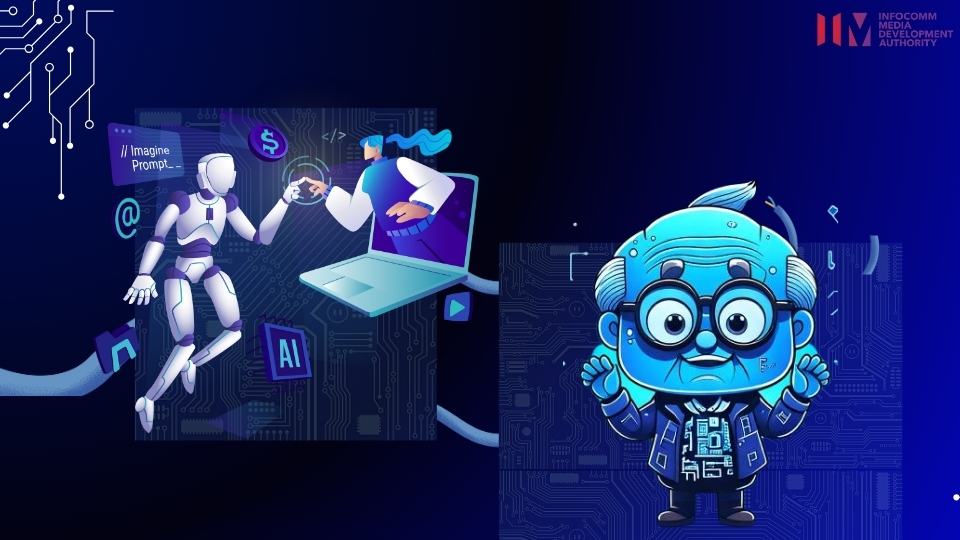
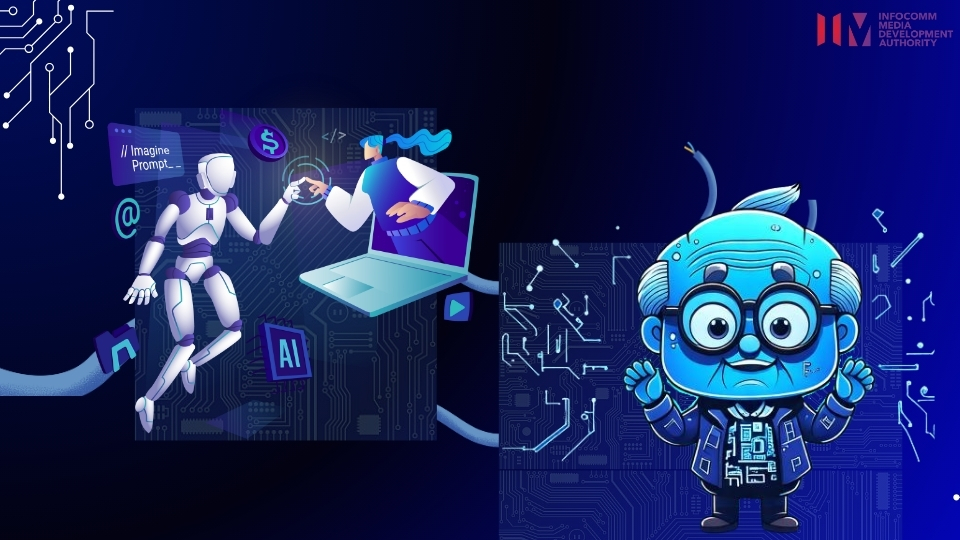
Add files via upload

Changed region(s): [[0.5, 0.2667, 0.9688, 1.0], [0.5312, 0.8296, 0.5625, 0.8593], [0.5312, 0.5037, 0.5625, 0.5333]]

diff --git a/Intdes-interactive-story/Jenibelleassignment.css b/Intdes-interactive-story/Jenibelleassignment.css
@@ -118,7 +118,7 @@ body, html {
 }
 
 /* Gradient Backgrounds for Other Sections miga */
-#page1 { background: url('2ndpng.jpeg') no-repeat center center;
+#page1 { background: url('2ndpng.jpg') no-repeat center center;
     background-size: cover;
 }
 #page2 {
@@ -128,11 +128,11 @@ body, html {
 #page3 {background: url('studyai.jpg') no-repeat center center;
     background-size: cover;  }
 
-#page4 {background: url('music.jpg') no-repeat center center;
+#page4 {background: url('ai.jpg') no-repeat center center;
     background-size: cover;  }
 
 
-#page5 {background: url('ai.jpg') no-repeat center center;
+#page5 {background: url('music.jpg') no-repeat center center;
     background-size: cover;  }
 #page6 { background: linear-gradient(135deg, #FFB88C, #D84B16); }
 
